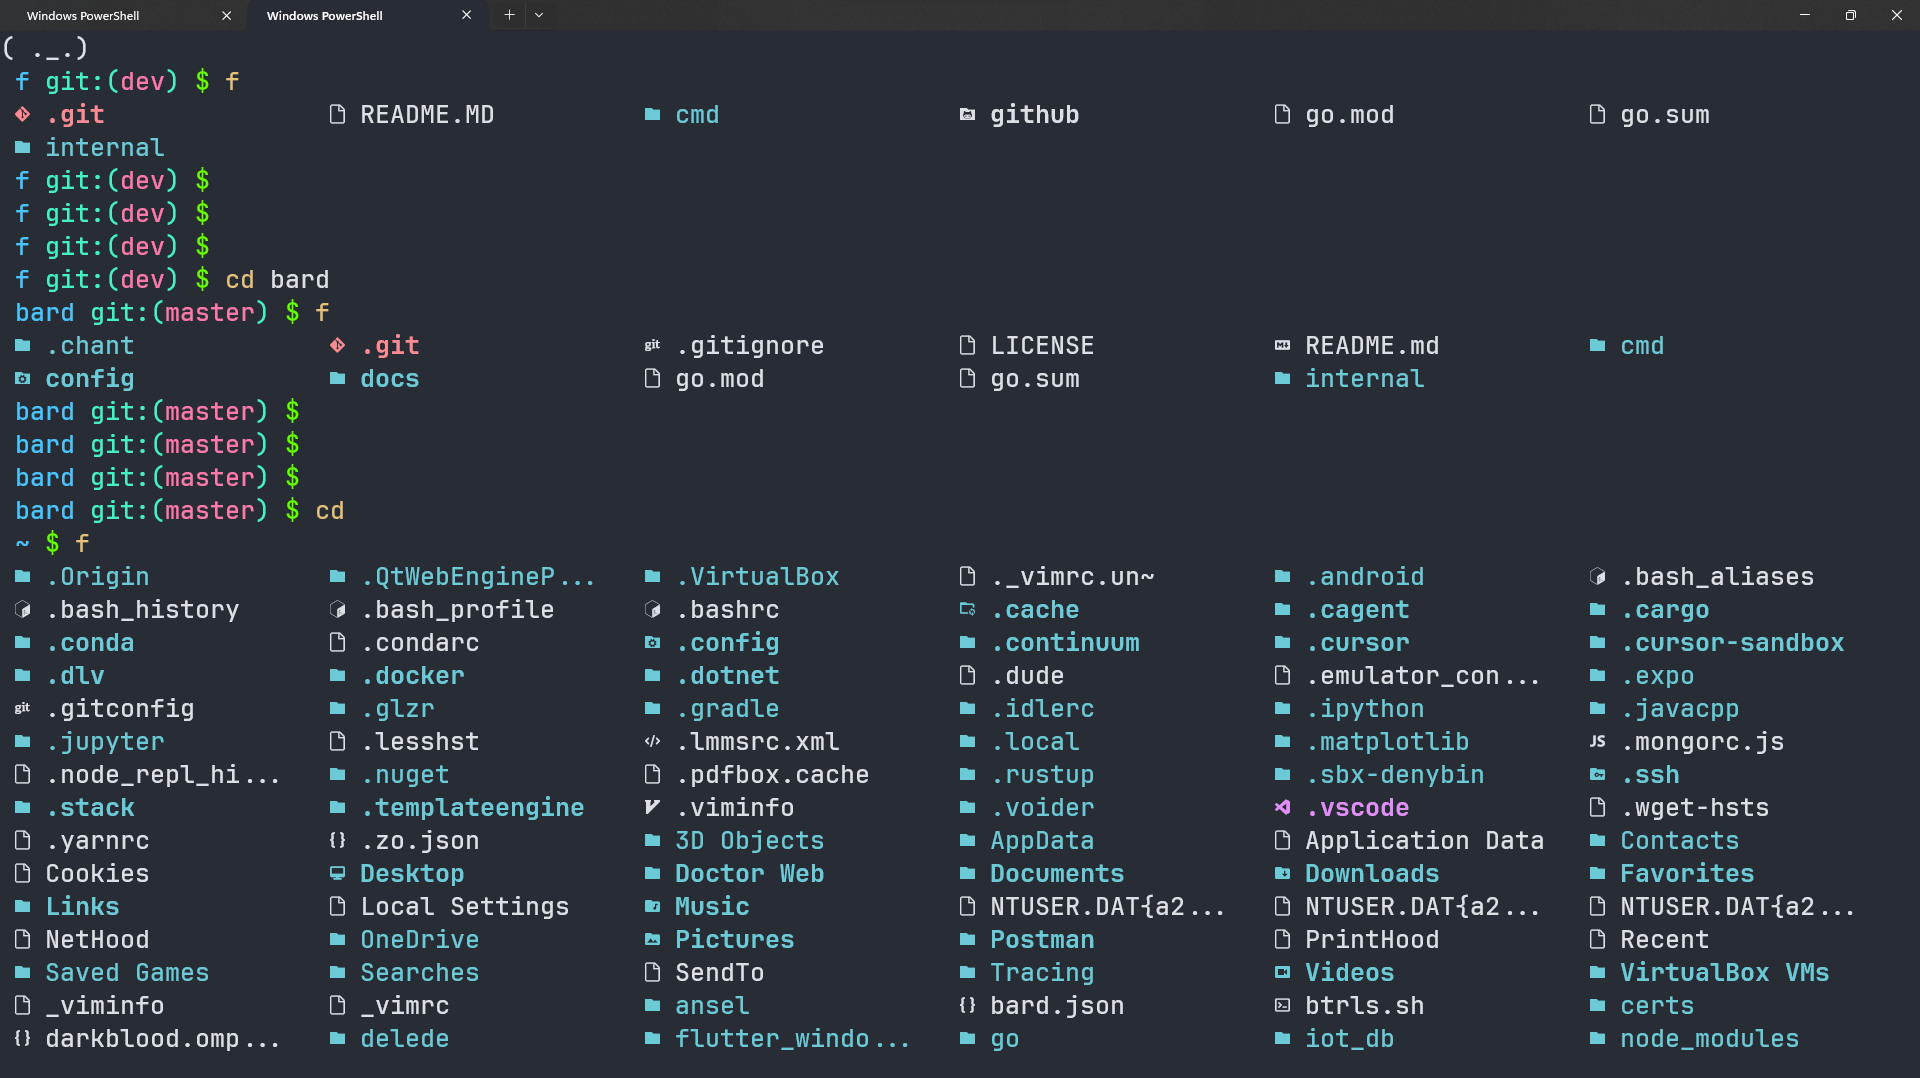
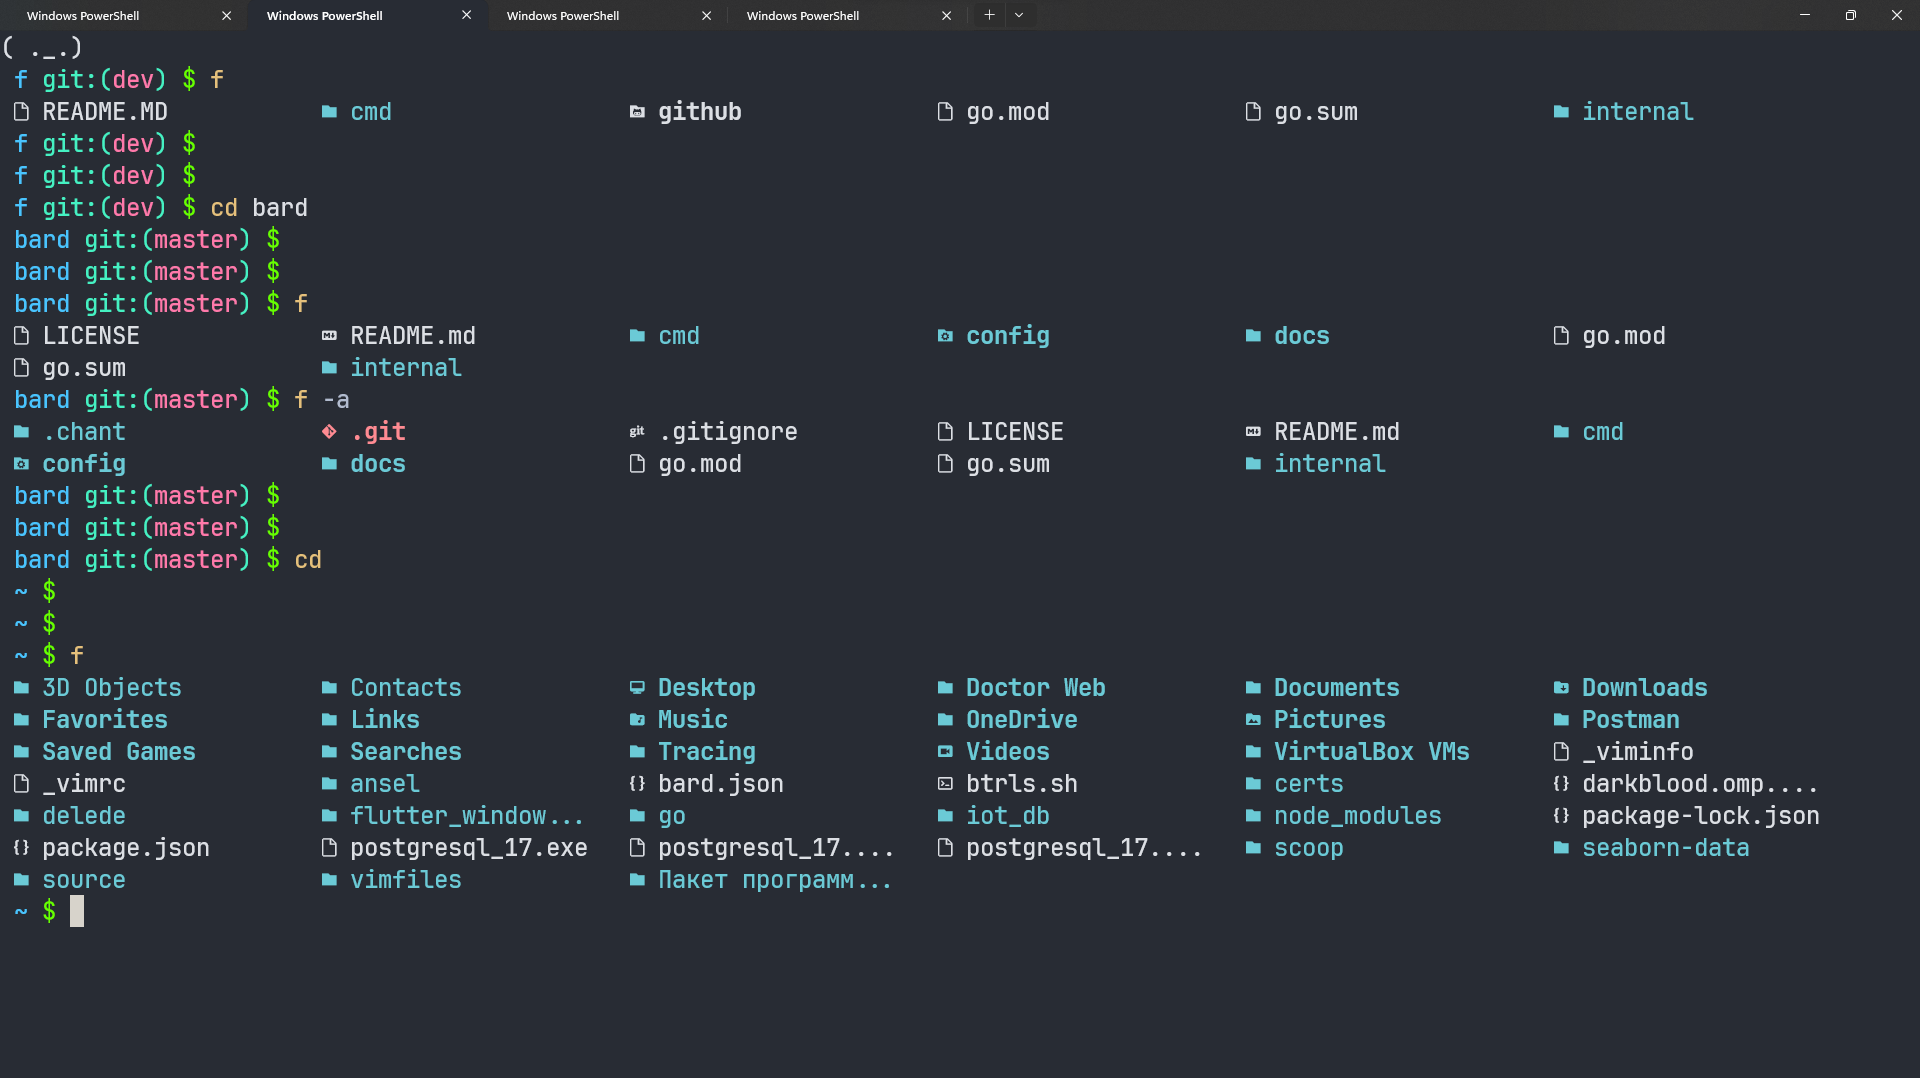
add '-a' flag to show all files

diff --git a/internal/scan.go b/internal/scan.go
@@ -6,6 +6,7 @@ import (
 	"os"
 	"path/filepath"
 	"strings"
+	"syscall"
 
 	"golang.org/x/term"
 )
@@ -20,24 +21,24 @@ const (
 type scanner struct {
 	tabs int
 	tabW int
+	show bool
 }
 
-func newScanner(width int) *scanner {
+func NewScanner(showHidden bool) (*scanner, error) {
+	width, _, err := term.GetSize(int(os.Stdout.Fd()))
+	if err != nil {
+		return nil, fmt.Errorf("Unable to run f: %s", err)
+	}
+
 	tabs := width / defaultWidth
 	tabw := width / tabs
 	tabs -= 1
 
-	s := scanner{tabs: tabs, tabW: tabw}
-	return &s
+	s := scanner{tabs: tabs, tabW: tabw, show: showHidden}
+	return &s, nil
 }
 
-func Scan() error {
-	width, _, err := term.GetSize(int(os.Stdout.Fd()))
-	if err != nil {
-		return fmt.Errorf("Unable to run f: %s", err)
-	}
-	s := newScanner(width)
-
+func (s *scanner) Scan() error {
 	var i int = 0
 
 	return filepath.Walk(".", func(path string, info fs.FileInfo, err error) error {
@@ -48,10 +49,11 @@ func Scan() error {
 			i += 1
 			return nil
 		}
-		// TODO: ignore hidden files
-		// TODO: add flag -a to show all files
 		if strings.Count(path, string(os.PathSeparator)) > 0 {
 			return fs.SkipDir // reading only current directory (working with depth = 0)
+		}
+		if s.isHidden(path) {
+			return nil
 		}
 
 		rString := s.toRuneColumn(path)
@@ -80,6 +82,28 @@ func Scan() error {
 		i += 1
 		return nil
 	})
+}
+
+func (s *scanner) isHidden(path string) bool {
+	if s.show {
+		return false
+	}
+
+	// is hidden on linux
+	linux := path[0] == '.'
+
+	// is hidden on windows
+	pointer, err := syscall.UTF16PtrFromString(path)
+	if err != nil {
+		return linux
+	}
+	attr, err := syscall.GetFileAttributes(pointer)
+	if err != nil {
+		return linux
+	}
+	windows := attr&syscall.FILE_ATTRIBUTE_HIDDEN != 0
+
+	return linux || windows
 }
 
 func (s *scanner) toRuneColumn(str string) []rune {

diff --git a/cmd/f/main.go b/cmd/f/main.go
@@ -1,13 +1,24 @@
 package main
 
 import (
+	"flag"
 	"fmt"
 
 	"github.com/EnotInc/f/internal"
 )
 
 func main() {
-	err := internal.Scan()
+	var all bool = false
+	flag.BoolVar(&all, "a", false, "show all files")
+	flag.Parse()
+
+	s, err := internal.NewScanner(all)
+	if err != nil {
+		fmt.Print(err)
+		return
+	}
+
+	err = s.Scan()
 	if err != nil {
 		fmt.Print(err)
 	}

diff --git a/README.MD b/README.MD
@@ -3,7 +3,9 @@
 **f** - is a little cli tool for listting files in current directory.
 It's small, simple and easy to use (just run `f`), and written without any 3rd party dependencies
 
-## Example
+## Usage
+
+Run `f` to list files. Add `-a` flag to show hidden files
 
 ![example](github/example.png)
 
